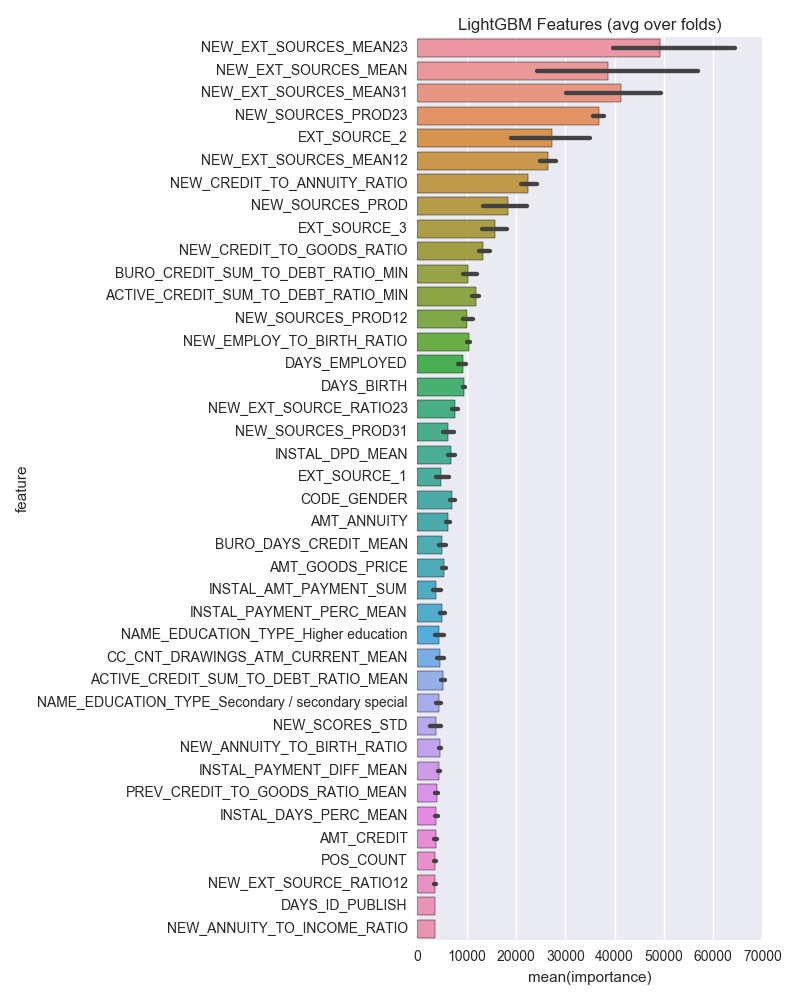
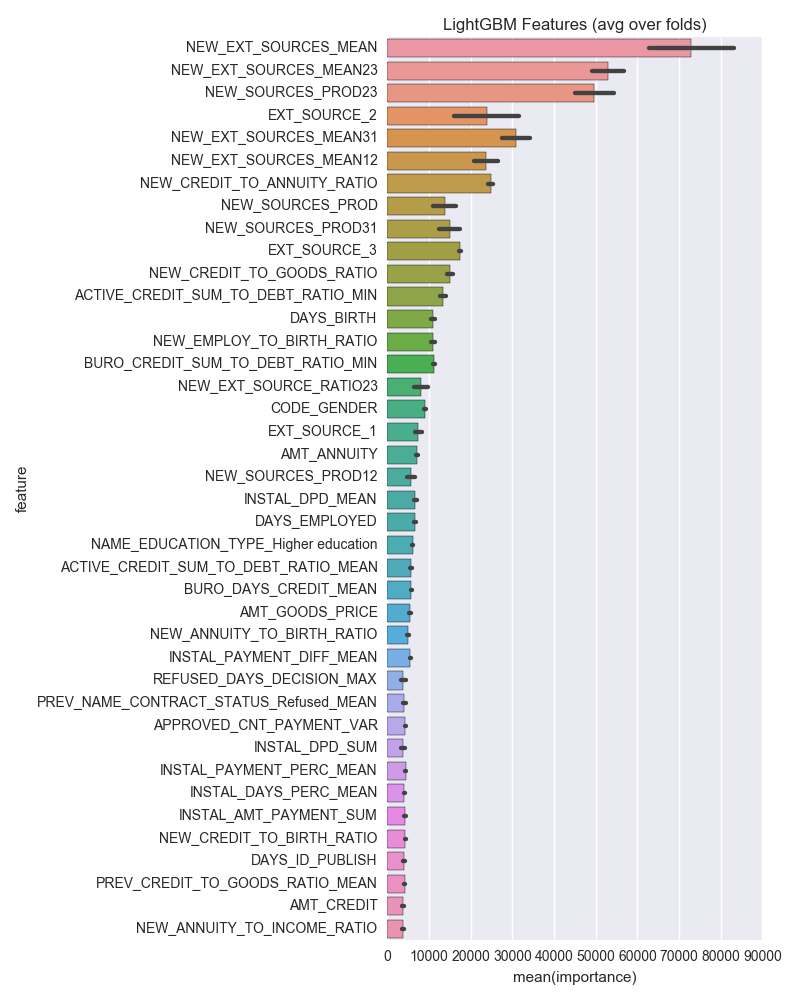
現段階で自力で出せるベストスコア（0.798）のバージョンです

Changed region(s): [[0.0312, 0.0, 0.9375, 0.992]]

diff --git a/LightGBM_with_Simple_Features.py b/LightGBM_with_Simple_Features.py
@@ -423,11 +423,23 @@ def kfold_lightgbm(df, num_folds, stratified = False, debug= False):
 
     print('Full AUC score %.6f' % roc_auc_score(train_df['TARGET'], oof_preds))
 
+    if not debug:
+        # AUDスコアを上げるため提出ファイルの調整を追加→これは最終段階で使いましょう
+#        test_df['TARGET'] = test_df['TARGET'].apply(lambda x: 1 if x > 0.700 else x)
+#        test_df['TARGET'] = test_df['TARGET'].apply(lambda x: 1 if x < 0.002 else x)
+
+        # 分離前モデルの予測値を保存
+        test_df['TARGET'] = sub_preds
+        test_df[['SK_ID_CURR', 'TARGET']].to_csv(submission_file_name, index= False)
+
     """
     ここから追加の処理
     CODE_GENDERでデータを分割し、全体モデルによる推定値（oof_preds）を変数として追加、性別毎に2回目の推定を行う
-    """
 
+    # 分離したモデルは精度そんなでもないのでとりあえずコメントアウトしておきます
+
+    """
+    """
     # 全体モデルの推定値を変数に追加
     train_df['oof_preds']=oof_preds
     test_df['oof_preds']=sub_preds
@@ -511,6 +523,7 @@ def kfold_lightgbm(df, num_folds, stratified = False, debug= False):
         del clf, train_x, train_y, valid_x, valid_y
         gc.collect()
 
+
     print('Full AUC score %.6f' % roc_auc_score(train_M['TARGET'], oof_preds_m))
 
     # femaleのモデルを推定
@@ -580,14 +593,6 @@ def kfold_lightgbm(df, num_folds, stratified = False, debug= False):
     # Write submission file and plot feature importance
     if not debug:
 
-        # AUDスコアを上げるため提出ファイルの調整を追加→これは最終段階で使いましょう
-#        test_df['TARGET'] = test_df['TARGET'].apply(lambda x: 1 if x > 0.700 else x)
-#        test_df['TARGET'] = test_df['TARGET'].apply(lambda x: 1 if x < 0.002 else x)
-
-        # 分離前モデルの予測値を保存
-        test_df['TARGET'] = sub_preds
-        test_df[['SK_ID_CURR', 'TARGET']].to_csv(submission_file_name, index= False)
-
         # 分離後の予測値
         test_M['TARGET'] = sub_preds_m
         test_F['TARGET'] = sub_preds_f
@@ -600,6 +605,8 @@ def kfold_lightgbm(df, num_folds, stratified = False, debug= False):
         test_df_split[['SK_ID_CURR', 'TARGET']].to_csv(submission_file_name_split, index= False)
 
     return feature_importance_df, feature_importance_df_m, feature_importance_df_f
+    """
+    return feature_importance_df
 
 # Display/plot feature importance
 def display_importances(feature_importance_df_, outputpath, csv_outputpath):
@@ -686,11 +693,14 @@ def main(debug = False, use_csv=False):
         """
 
         # 性別毎にモデルを推定
-        feat_importance, feat_importance_m, feat_importance_f = kfold_lightgbm(df, num_folds= 5, stratified= False, debug= debug)
+#        feat_importance, feat_importance_m, feat_importance_f = kfold_lightgbm(df, num_folds= 5, stratified= True, debug= debug)
+
+        # 通常モデルのみ推定
+        feat_importance = kfold_lightgbm(df, num_folds= 5, stratified= True, debug= debug)
 
         display_importances(feat_importance ,'lgbm_importances.png', 'feature_importance.csv')
-        display_importances(feat_importance_m ,'lgbm_importances_M.png', 'feature_importance_M.csv')
-        display_importances(feat_importance_f ,'lgbm_importances_F.png', 'feature_importance_F.csv')
+#        display_importances(feat_importance_m ,'lgbm_importances_M.png', 'feature_importance_M.csv')
+#        display_importances(feat_importance_f ,'lgbm_importances_F.png', 'feature_importance_F.csv')
 
 if __name__ == "__main__":
     submission_file_name = "submission_add_feature.csv"
